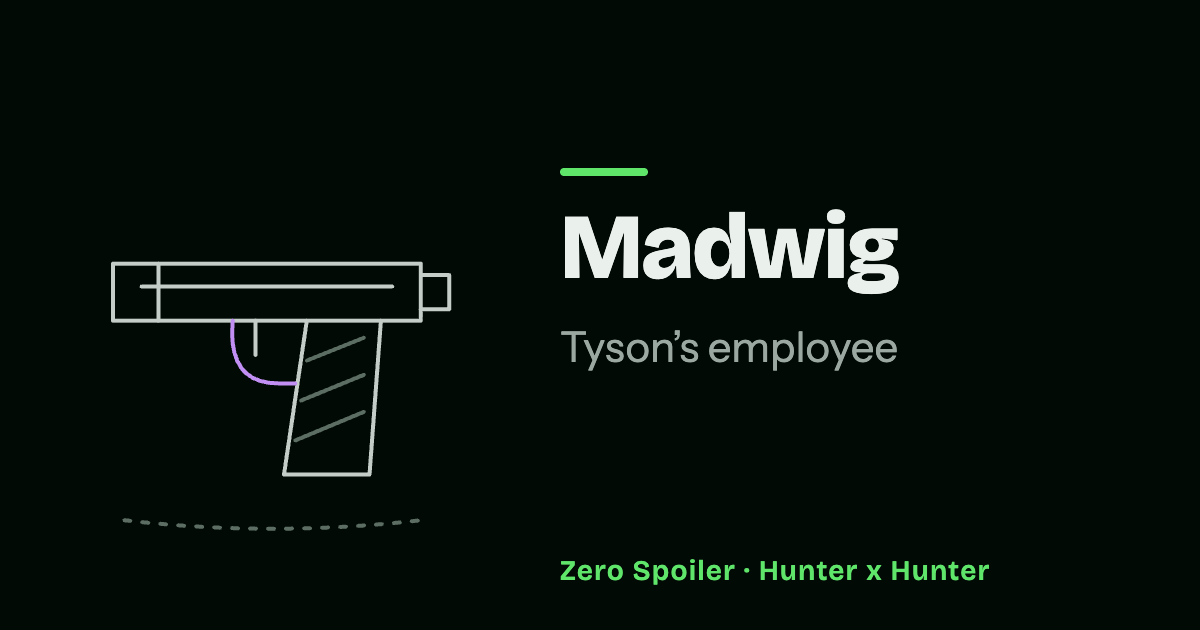
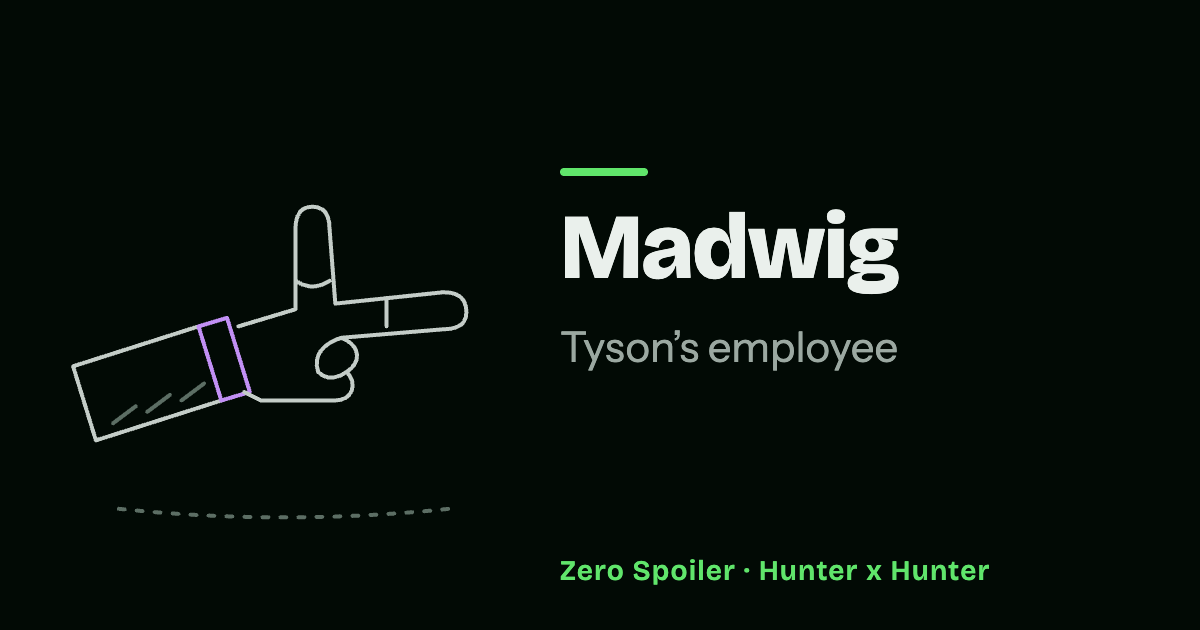
fix(art): address review round 2 on the Kakin drawings, chapters 371–400
Benjamin's stars spaced; Camilla's cat drips from its tail; Fugetsu's
handle and Ken'i's outfit dated honestly; Madwig's finger gun; Neon's and
Hanzo's first drawings split into named constants.

Changed region(s): [[0.0617, 0.3016, 0.4008, 0.7841], [0.0925, 0.7841, 0.3392, 0.8444], [0.3392, 0.7841, 0.37, 0.8143]]

diff --git a/src/data/series/hunter-x-hunter/art/index.ts b/src/data/series/hunter-x-hunter/art/index.ts
@@ -63,7 +63,12 @@ import { KAKIN_PHASE_THREE_DRAWINGS } from './kakin-phase-3'
 import { KAKIN_PHASE_4_DRAWINGS, kakinPhaseFourRedrawn } from './kakin-phase-4'
 import { KAKIN_PHASE_5_DRAWINGS } from './kakin-phase-5'
 import { TRICK_TOWER_DRAWINGS } from './trick-tower'
-import { YORKNEW_CITY_DRAWINGS, yorknewCityRedrawn } from './yorknew-city'
+import {
+  NEON_PEN,
+  NEON_SHEETS,
+  YORKNEW_CITY_DRAWINGS,
+  yorknewCityRedrawn,
+} from './yorknew-city'
 import { zevilArt, zevilRedrawn } from './zevil'
 import { ZOLDYCK_DRAWINGS } from './zoldyck'
 
@@ -169,6 +174,25 @@ const LEORIO_SHADOW = shadow(78, 174, 58)
  * `satisfies` rather than an annotation, so `ArtId` below stays the literal
  * ids and a record cannot name a drawing that is not here.
  */
+/** Hanzo's bandana knotted into a loop, his first drawing without its shadow. */
+const HANZO_BANDANA: Stroke[] = [
+  { d: 'M40.4 83.8 A42 22 -8 1 0 123.6 72.2 A42 22 -8 1 0 40.4 83.8' },
+  { d: 'M40.4 83.8 V92 A42 22 -8 0 0 123.6 80.4 V72.2' },
+  {
+    d: 'M52.3 78.2 A30 13 -8 1 1 111.7 69.8 A30 13 -8 1 1 52.3 78.2',
+    role: 'soft',
+  },
+  { d: 'M60 67 l2 6 M72 63 l2 6 M86 62 l2 6 M100 63 l1 6', role: 'ambient' },
+  { d: 'M48 92 q4 -4 2 -10 M112 90 q-3 -4 0 -10', role: 'soft' },
+  { d: 'M74 98 L92 94 L98 106 L86 115 L74 109 Z', role: 'accent' },
+  {
+    d: 'M76 109 C66 124 52 138 34 152 C52 150 68 138 84 115 M92 108 C104 124 116 140 134 156 C118 152 102 138 90 113',
+    role: 'accent',
+  },
+  { d: 'M72 124 L52 144 M98 126 L118 148', role: 'soft' },
+  { d: 'M80 101 l8 8', role: 'soft' },
+]
+
 export const DRAWINGS = {
   ...ZOLDYCK_DRAWINGS,
   ...CHAPTER_ONE_DRAWINGS,
@@ -822,24 +846,7 @@ export const DRAWINGS = {
   // tails in the record's tint. His exam clothes in episode 3 and
   // chapter 6. His hidden blade is first shown in episode 19 and chapter
   // 34, after his threshold, so it is not drawn.
-  'hanzo': [
-    { d: 'M40.4 83.8 A42 22 -8 1 0 123.6 72.2 A42 22 -8 1 0 40.4 83.8' },
-    { d: 'M40.4 83.8 V92 A42 22 -8 0 0 123.6 80.4 V72.2' },
-    {
-      d: 'M52.3 78.2 A30 13 -8 1 1 111.7 69.8 A30 13 -8 1 1 52.3 78.2',
-      role: 'soft',
-    },
-    { d: 'M60 67 l2 6 M72 63 l2 6 M86 62 l2 6 M100 63 l1 6', role: 'ambient' },
-    { d: 'M48 92 q4 -4 2 -10 M112 90 q-3 -4 0 -10', role: 'soft' },
-    { d: 'M74 98 L92 94 L98 106 L86 115 L74 109 Z', role: 'accent' },
-    {
-      d: 'M76 109 C66 124 52 138 34 152 C52 150 68 138 84 115 M92 108 C104 124 116 140 134 156 C118 152 102 138 90 113',
-      role: 'accent',
-    },
-    { d: 'M72 124 L52 144 M98 126 L118 148', role: 'soft' },
-    { d: 'M80 101 l8 8', role: 'soft' },
-    shadow(82, 178, 56),
-  ],
+  'hanzo': [...HANZO_BANDANA, shadow(82, 178, 56)],
 
   // Nicholas's notebook computer, open on its hinge, the empty screen in
   // the record's tint: he looks up Tonpa in episode 3 and chapter 6.
@@ -1177,10 +1184,6 @@ const HISOKA_REBUILT: Stroke[] = DRAWINGS.hisoka.flatMap((stroke, index) => {
   return [index === 2 || index === 3 ? { ...stroke, role: 'ambient' } : stroke]
 })
 
-/** The blank sheets of Neon's drawing (strokes 0–4) and her pen (5–9). */
-const NEON_SHEETS = YORKNEW_CITY_DRAWINGS['neon-nostrade'].slice(0, 5)
-const NEON_PEN = YORKNEW_CITY_DRAWINGS['neon-nostrade'].slice(5, 10)
-
 /** Returning records whose drawing changes in Kakin, chapters 340–400 (#1154, #1156). */
 const kakinReturningRedrawn: Redrawings = {
   'mizaistom-nana': [
@@ -1359,9 +1362,10 @@ const kakinReturningRedrawn: Redrawings = {
       chapter: 372,
       value: [
         ...moved(
-          DRAWINGS.hanzo
-            .slice(0, -1)
-            .map((stroke) => ({ ...stroke, role: 'ambient' as const })),
+          HANZO_BANDANA.map((stroke) => ({
+            ...stroke,
+            role: 'ambient' as const,
+          })),
           'translate(16 -34)',
         ),
         ...moved(DRAWINGS.hanzo, 'translate(-12 14)'),

diff --git a/src/data/series/hunter-x-hunter/art/kakin-phase-1.ts b/src/data/series/hunter-x-hunter/art/kakin-phase-1.ts
@@ -679,9 +679,10 @@ export const kakinPhaseOneRedrawn: Redrawings = {
   ],
   'fugetsu-hui-guo-rou': [
     // The small rounded door of the playground tunnel the twins played in
-    // as children, its handle on the left, set in the wall above the same
-    // glass harp made small: her Guardian Spirit Beast's door first
-    // appears to her, chapter 374.
+    // as children, set in the wall above the same glass harp made small:
+    // her Guardian Spirit Beast's door first appears to her, chapter 374.
+    // The handle side is drawn by convention, a frame check: the wiki's
+    // note on it is about the outgoing door.
     {
       ...KAKIN,
       chapter: 374,
@@ -746,11 +747,11 @@ export const kakinPhaseOneBeasts: Redrawings = {
           d: 'M56 112 L52 50 Q52 44 57 44 Q62 44 62 50 V72 M62 72 V34 Q62 28 67 28 Q72 28 72 34 V70 M72 70 V26 Q72 20 77 20 Q82 20 82 26 V70 M82 70 V32 Q82 26 87 26 Q92 26 92 32 V80 C100 72 110 70 114 76 Q116 82 110 86 C102 94 100 102 98 112',
         },
         {
-          d: `${star(67, 78, 6, 2.6)} ${star(78, 76, 6, 2.6)} ${star(89, 80, 6, 2.6)}`,
+          d: `${star(61, 86, 4.5, 2)} ${star(77, 84, 4.5, 2)} ${star(93, 88, 4.5, 2)}`,
           role: 'accent',
         },
         {
-          d: 'M74 70 l-2 -3 M82 70 l2 -3 M85 74 l-2 -3 M93 76 l3 -2 M95 84 l3 1 M83 82 l-2 3',
+          d: 'M77 76 v-3 M71 80 l-3 -2 M83 80 l3 -2 M93 80 v-3 M87 84 l-3 -2 M99 84 l3 -2',
           role: 'ambient',
         },
         {
@@ -790,9 +791,10 @@ export const kakinPhaseOneBeasts: Redrawings = {
       ],
     },
     // A huge cat above the same updo made small, the tip of its tail turned
-    // white with the life it pours into her mouth: Cat's Name brings her
-    // back after Musse shoots her, chapter 373. It appears behind her
-    // killer; its pose here is a frame check. No face.
+    // white (the wiki's ability box) and a drop falling from it: the cat
+    // drips the life it took from her killer into her mouth, and Cat's Name
+    // brings her back after Musse shoots her, chapter 373. It appears
+    // behind her killer; its pose here is a frame check. No face.
     {
       ...KAKIN,
       chapter: 373,
@@ -807,7 +809,7 @@ export const kakinPhaseOneBeasts: Redrawings = {
           d: 'M136 50 C130 44 132 36 138 38 C144 40 144 48 136 50',
           role: 'soft',
         },
-        { d: 'M134 58 l2 6 M140 56 l3 5', role: 'ambient' },
+        { d: 'M136 60 C133 64 133 68 136 68 C139 68 139 64 136 60 Z' },
         {
           d: 'M50 70 l-6 4 M48 84 l-6 4 M112 70 l6 4 M114 84 l6 4',
           role: 'ambient',

diff --git a/src/data/series/hunter-x-hunter/art/yorknew-city.ts b/src/data/series/hunter-x-hunter/art/yorknew-city.ts
@@ -222,6 +222,27 @@ const KORTOPI_VASE: Stroke[] = [
  * The Yorknew City records (#900), each at its named scene: first-pass
  * drawings, graded and redrawn in #901.
  */
+/** Neon's stack of blank sheets in 3/4, its edge hatched. */
+export const NEON_SHEETS: Stroke[] = [
+  { d: 'M22 130 L98 110 L140 138 L64 160 Z' },
+  { d: 'M22 130 V138 L64 168 L140 146 V138' },
+  { d: 'M22 134 L64 164 L140 142', role: 'soft' },
+  { d: 'M30 126 L96 108 M100 112 L134 134', role: 'soft' },
+  {
+    d: 'M78 164 l3 -5 M96 159 l3 -5 M114 153 l3 -5 M130 148 l3 -5',
+    role: 'ambient',
+  },
+]
+
+/** The pen her power guides, the nib in tint. */
+export const NEON_PEN: Stroke[] = [
+  { d: 'M44 48 L52 42 L114 112 L106 118 Z' },
+  { d: 'M44 48 C40 44 46 38 52 42', role: 'soft' },
+  { d: 'M58 62 L66 56 M62 66 L96 104', role: 'soft' },
+  { d: 'M106 118 L118 132 L114 112', role: 'accent' },
+  { d: 'M70 76 l4 -4 M80 88 l4 -4 M90 100 l4 -4', role: 'ambient' },
+]
+
 export const YORKNEW_CITY_DRAWINGS = {
   // Melody's brimmed hat in 3/4, the band in tint and the crown's far side
   // hatched: she wears a hat in public, and is one of the six applicants
@@ -287,22 +308,7 @@ export const YORKNEW_CITY_DRAWINGS = {
   // A pen over a stack of blank sheets, the nib in tint and the stack's
   // edge hatched: Neon writes her fortunes with a hand her power guides,
   // episode 41 / chapter 71. No words on the sheets.
-  'neon-nostrade': [
-    { d: 'M22 130 L98 110 L140 138 L64 160 Z' },
-    { d: 'M22 130 V138 L64 168 L140 146 V138' },
-    { d: 'M22 134 L64 164 L140 142', role: 'soft' },
-    { d: 'M30 126 L96 108 M100 112 L134 134', role: 'soft' },
-    {
-      d: 'M78 164 l3 -5 M96 159 l3 -5 M114 153 l3 -5 M130 148 l3 -5',
-      role: 'ambient',
-    },
-    { d: 'M44 48 L52 42 L114 112 L106 118 Z' },
-    { d: 'M44 48 C40 44 46 38 52 42', role: 'soft' },
-    { d: 'M58 62 L66 56 M62 66 L96 104', role: 'soft' },
-    { d: 'M106 118 L118 132 L114 112', role: 'accent' },
-    { d: 'M70 76 l4 -4 M80 88 l4 -4 M90 100 l4 -4', role: 'ambient' },
-    shadow(84, 184, 58),
-  ],
+  'neon-nostrade': [...NEON_SHEETS, ...NEON_PEN, shadow(84, 184, 58)],
   // Ivlenkov's black suit jacket from the front, buttoned over a round
   // front, its far half hatched and the tie in tint: the plump bodyguard
   // Dalzollene sends to bid at the Underground Auction, episode 42 /

diff --git a/src/data/series/hunter-x-hunter/art/kakin-phase-4.ts b/src/data/series/hunter-x-hunter/art/kakin-phase-4.ts
@@ -255,10 +255,8 @@ export const KAKIN_PHASE_4_DRAWINGS = {
   ],
 
   // A burger in its paper wrapper on a tray, the wrapper in tint: Perigord
-  // is eating at a burger joint on Tier 3 when he spots the Xi-Yu, and goes
-  // on eating after he kicks Lynch, chapter 390 (named in 393). What he
-  // eats is not stated, so the burger is the joint's food by convention,
-  // a frame check.
+  // is eating in a burger joint on Tier 3 when he spots the Xi-Yu, and goes
+  // on eating after he kicks Lynch, chapter 390 (named in 393).
   'perigord': [
     { d: 'M14 128 L110 112 L148 136 L52 154 Z' },
     { d: 'M14 128 V134 L52 160 L148 142 V136', role: 'soft' },
@@ -523,18 +521,22 @@ export const KAKIN_PHASE_4_DRAWINGS = {
     shadow(80, 170, 60),
   ],
 
-  // A handgun side on, the slide, the grip hatched and the trigger guard in
-  // tint: Madwig plays a hitman who remembers nothing but how to use one,
-  // chapter 400.
+  // A hand making a finger gun, out of the black sleeve of his suit, the
+  // shirt cuff in tint: Madwig plays a hitman with amnesia who remembers
+  // only how to handle a gun, and holds up a finger gun, chapter 400.
   'madwig': [
-    { d: 'M20 82 H128 V102 H20 Z' },
-    { d: 'M128 86 H138 V98 H128', role: 'soft' },
-    { d: 'M30 90 H118 M36 82 V102', role: 'soft' },
-    { d: 'M88 102 L80 156 H110 L114 102' },
-    { d: 'M62 102 Q60 124 78 124 H84', role: 'accent' },
-    { d: 'M70 102 V114', role: 'soft' },
-    { d: 'M88 116 l20 -8 M86 130 l22 -9 M84 144 l24 -10', role: 'ambient' },
-    shadow(76, 172, 52),
+    { d: 'M6 118 L50 104 L58 130 L14 144 Z' },
+    { d: 'M50 104 L60 101 L68 127 L58 130 Z', role: 'accent' },
+    {
+      d: 'M64 104 L84 98 L84 70 Q84 62 90 62 Q96 62 96 70 L98 96 L136 92 Q144 92 144 99 Q144 105 136 105 L100 108 M100 108 C106 110 108 116 102 120 M102 120 C106 124 104 130 98 130 L72 130 L66 127',
+    },
+    {
+      d: 'M100 108 C94 110 90 114 92 120 M92 120 Q96 124 102 120',
+      role: 'soft',
+    },
+    { d: 'M84 88 Q90 92 96 88 M116 94 V104', role: 'soft' },
+    { d: 'M20 138 l8 -6 M32 134 l8 -6 M44 130 l8 -6', role: 'ambient' },
+    shadow(80, 168, 58),
   ],
 
   // Himoncé's light hair from behind, falling past his ears, in tint, over

diff --git a/src/data/series/hunter-x-hunter/art/kakin-phase-3.ts b/src/data/series/hunter-x-hunter/art/kakin-phase-3.ts
@@ -36,8 +36,11 @@ export const KAKIN_PHASE_THREE_DRAWINGS = {
   ],
 
   // Ken'i Wang's striped single-breasted suit over a white shirt, and the
-  // dark tie with polka dots, the dots in tint: how he is dressed when he
-  // first appears, chapters 378 and 379. No face.
+  // dark tie with polka dots, the dots in tint: his outfit when he first
+  // appears, chapter 378. From 379, where he is named, he wears a dark suit
+  // and a matching tie. His rectangular glasses are not drawn: there is no
+  // head to wear them, and rectangular glasses are already Hyuga's object.
+  // No face.
   'ken-i-wang': [
     { d: 'M40 62 L66 52 L80 96 L94 52 L120 62 L128 170 H32 Z' },
     {
